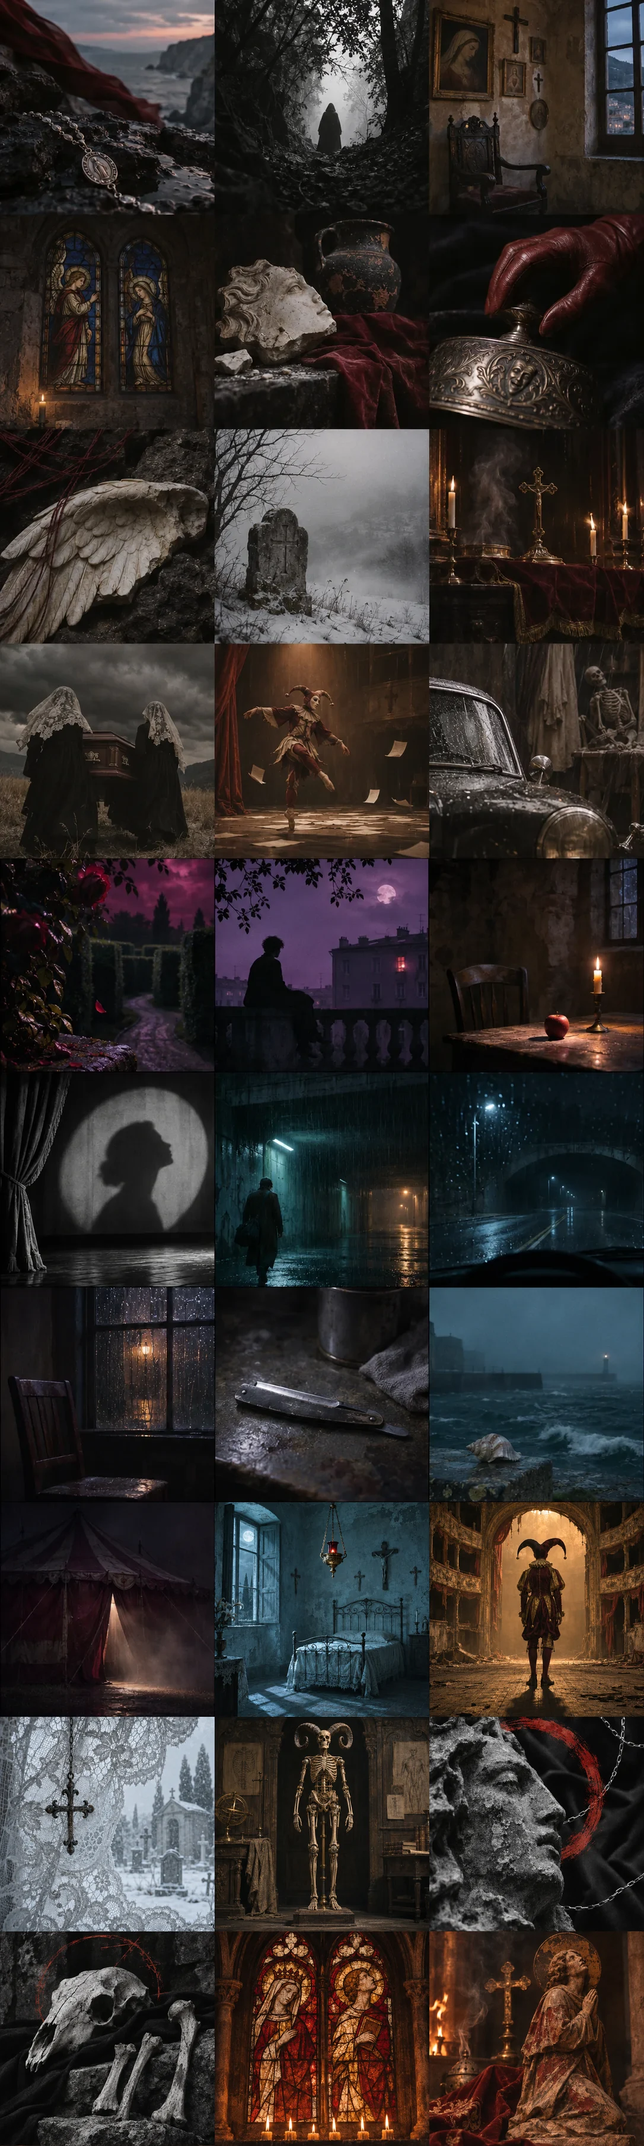
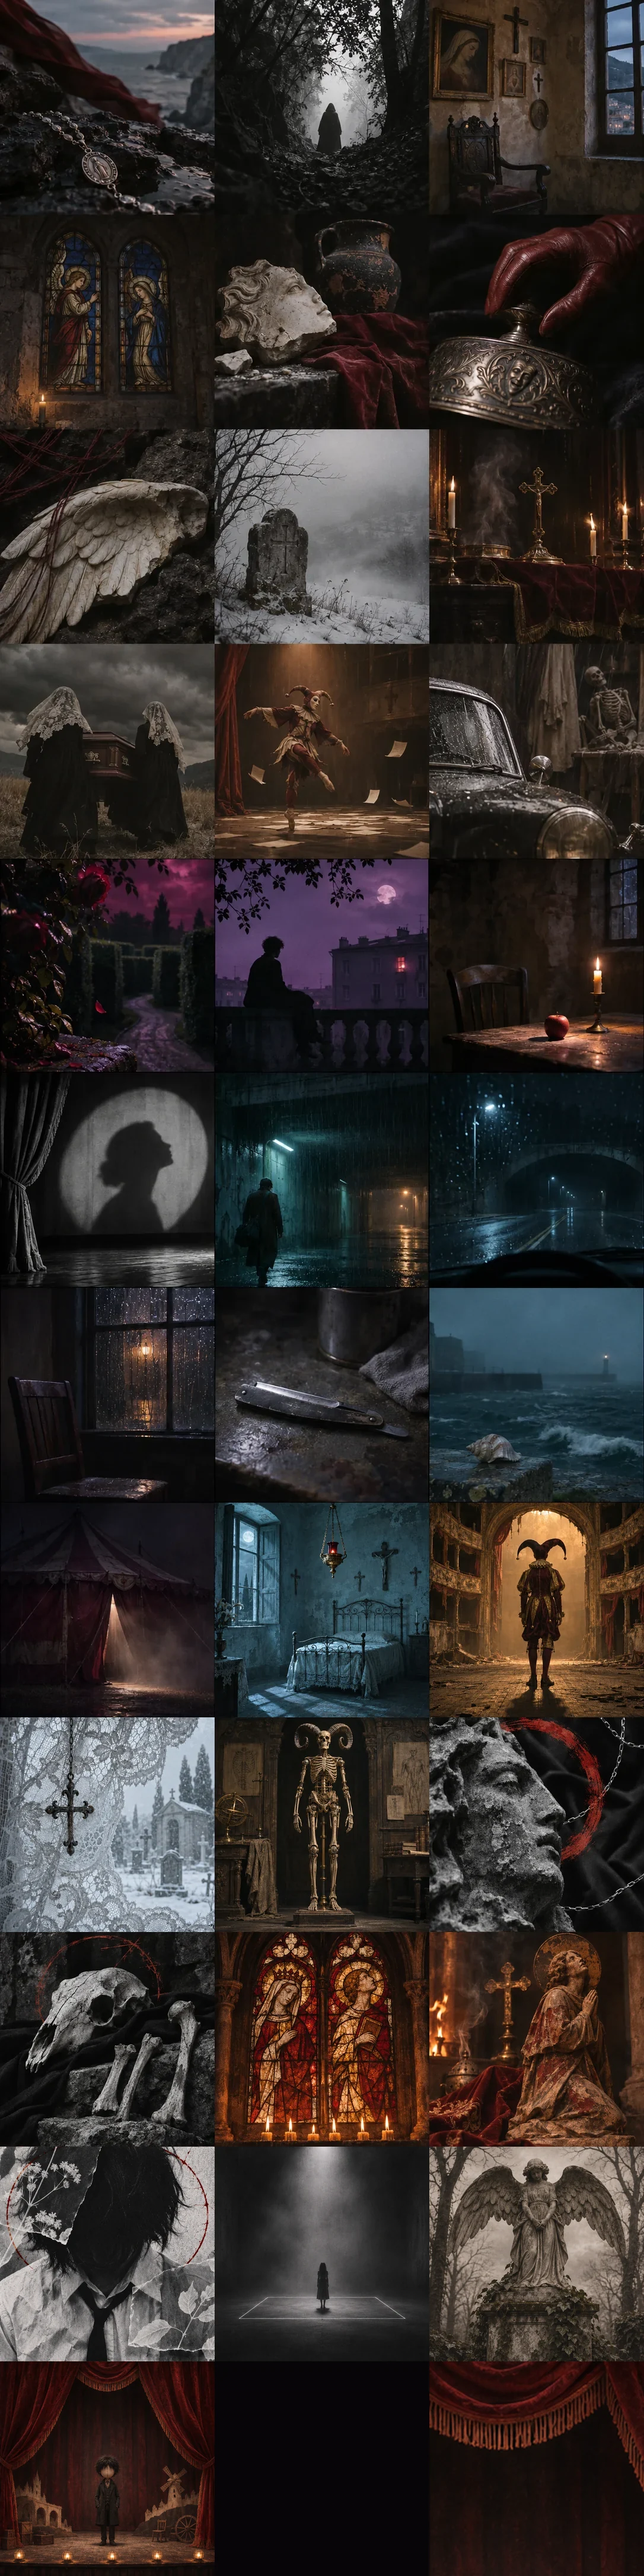
Update four Kid Yugi scenes from audio-matched Canvas references

diff --git a/immersive-animation.js b/immersive-animation.js
@@ -40,7 +40,7 @@ Object.assign(environments,{
 });
 const assetRoot=document.currentScript?.src||document.baseURI;
 const textures={file:"immersive-textures.webp?v=1",image:null,ready:false};
-const kidYugiTextures={file:"immersive-kid-yugi.webp?v=2",image:null,ready:false};
+const kidYugiTextures={file:"immersive-kid-yugi.webp?v=3",image:null,ready:false};
 const libraryTextures={file:"immersive-ste.webp?v=2",image:null,ready:false};
 // Atlas tile, framing, camera direction and the practical light in the scene.
 const kidYugiScenes={
@@ -58,12 +58,12 @@ const kidYugiScenes={
  "b-track-1187":[11,.41,.52,-.061,.033,"#b09a7b"],
  "b-track-6":[12,.36,.52,.044,-.029,"#bb4877"],
  "b-track-30":[12,.59,.56,-.061,.026,"#91503f"],
- "b-track-33":[13,.38,.44,.055,-.029,"#a668a4"],
+ "b-track-33":[30,.51,.51,.043,-.021,"#a75a60"],
  "b-track-34":[14,.58,.55,-.035,.024,"#ee9e50"],
- "b-track-40":[15,.59,.43,.034,-.035,"#e0dcce"],
+ "b-track-40":[31,.53,.57,.029,-.024,"#e0dcce"],
  "b-track-49":[16,.48,.57,.059,.023,"#66a3ac"],
- "b-track-207":[18,.41,.52,-.039,.015,"#b98252"],
- "b-track-215":[19,.49,.54,-.055,.020,"#99bbca"],
+ "b-track-207":[32,.52,.52,-.047,.017,"#b8a38a"],
+ "b-track-215":[33,.52,.55,-.037,.018,"#ad5143"],
  "b-youtube-S8oUoa0pwpo":[20,.37,.61,.063,.026,"#719eae"],
  "b-track-20":[21,.59,.52,-.030,-.026,"#b98050"]
 };
@@ -104,9 +104,13 @@ const libraryScenes={
  "b-track-73":[32,.60,.56,-.063,.024,"#c2888d"]
 };
 // Cue positions are fractions of the loop, followed by the shot to show.
-// The close view reframes the original Music Box art. Eight alternate scenes
+// The close view reframes the original Music Box art. Alternate scenes
 // use their own atlas tile, based on a second shot in the matching reference.
 const photoEdits={
+ "b-track-33":[5.6,[[0,0],[.11,1],[.22,0],[.36,1],[.58,0],[.78,1],[.92,0]]],
+ "b-track-40":[8,[[0,2],[.31,0],[.46,2],[.58,1],[.69,0]],15],
+ "b-track-207":[5.96,[[0,1],[.16,0],[.39,1],[.61,0],[.78,1],[.89,0]]],
+ "b-track-215":[7.72,[[0,2],[.10,0]],35],
  "b-track-29":[5.33,[[0,2],[.22,1],[.43,2],[.65,1],[.78,2]],26],
  "b-track-37":[6.1,[[0,1],[.19,0],[.55,1],[.71,0],[.90,1]]],
  "b-track-38":[7.5,[[0,0],[.13,1],[.53,2],[.69,1],[.80,0]],22],

diff --git a/sw.js b/sw.js
@@ -72,9 +72,9 @@ const CORE = [
   "./smart-mix-lab/style.css",
   "./voice-analysis.js?v=6570",
   "./immersive-scenes.js?v=1",
-  "./immersive-animation.js?v=11",
+  "./immersive-animation.js?v=12",
   "./immersive-textures.webp?v=1",
-  "./immersive-kid-yugi.webp?v=2",
+  "./immersive-kid-yugi.webp?v=3",
   "./immersive-ste.webp?v=2",
   "./immersive.js?v=6734&words=27",
   "./manifest.json",
@@ -124,7 +124,7 @@ const OFFLINE_SHELL = [
   "./mix-intelligente.js?v=6744&dj=63",
   "./mix-monitor-bridge.js?v=4",
   "./immersive-scenes.js?v=1",
-  "./immersive-animation.js?v=11",
+  "./immersive-animation.js?v=12",
   "./immersive-textures.webp?v=1",
   "./immersive.js?v=6734&words=27"
 ];

diff --git a/index.html b/index.html
@@ -1643,7 +1643,7 @@ Ste lo chiedeva perche' i due modi non si capivano. -->
 <script src="mix-intelligente.js?v=6744&amp;dj=63"></script>
 <script src="mix-monitor-bridge.js?v=4"></script>
 <script src="immersive-scenes.js?v=1"></script>
-<script src="immersive-animation.js?v=11"></script>
+<script src="immersive-animation.js?v=12"></script>
 <script src="immersive.js?v=6734&amp;words=27"></script>
 </body>
 </html>

diff --git a/immersive-loops/README.md b/immersive-loops/README.md
@@ -7,4 +7,6 @@ I file contengono soltanto video.
 
 ## Scene in canvas
 
-Il montaggio Music Box riprende il ritmo di 43 anteprime già associate alle registrazioni di Ste nell'[audit visivo](../audits/ste-canvas-visual-references-2026-11-24.json). Per otto brani di Kid Yugi include una seconda inquadratura originale. I riferimenti sono stati osservati attraverso le anteprime associate all'URI Spotify del brano e [la galleria Kid Yugi](https://www.canvasdownloader.com/artists/kid-yugi-pkca). Per le voci senza riscontro resta l'ambientazione del brano con il nuovo movimento della scena.
+Il montaggio Music Box riprende il ritmo di 47 anteprime già associate alle registrazioni di Ste nell'[audit visivo](../audits/ste-canvas-visual-references-2026-11-24.json). Per alcuni brani di Kid Yugi include una seconda inquadratura originale. I riferimenti sono stati osservati attraverso le anteprime associate all'URI Spotify del brano e [la galleria Kid Yugi](https://www.canvasdownloader.com/artists/kid-yugi-pkca). Per le voci senza riscontro resta l'ambientazione del brano con il nuovo movimento della scena.
+
+Per Lilith, Donna, Per te che Lotto e Il Ferro di Čechov la corrispondenza è stata verificata anche su più passaggi di audio, a partire dalle anteprime Spotify e dai file effettivi di Ste.
